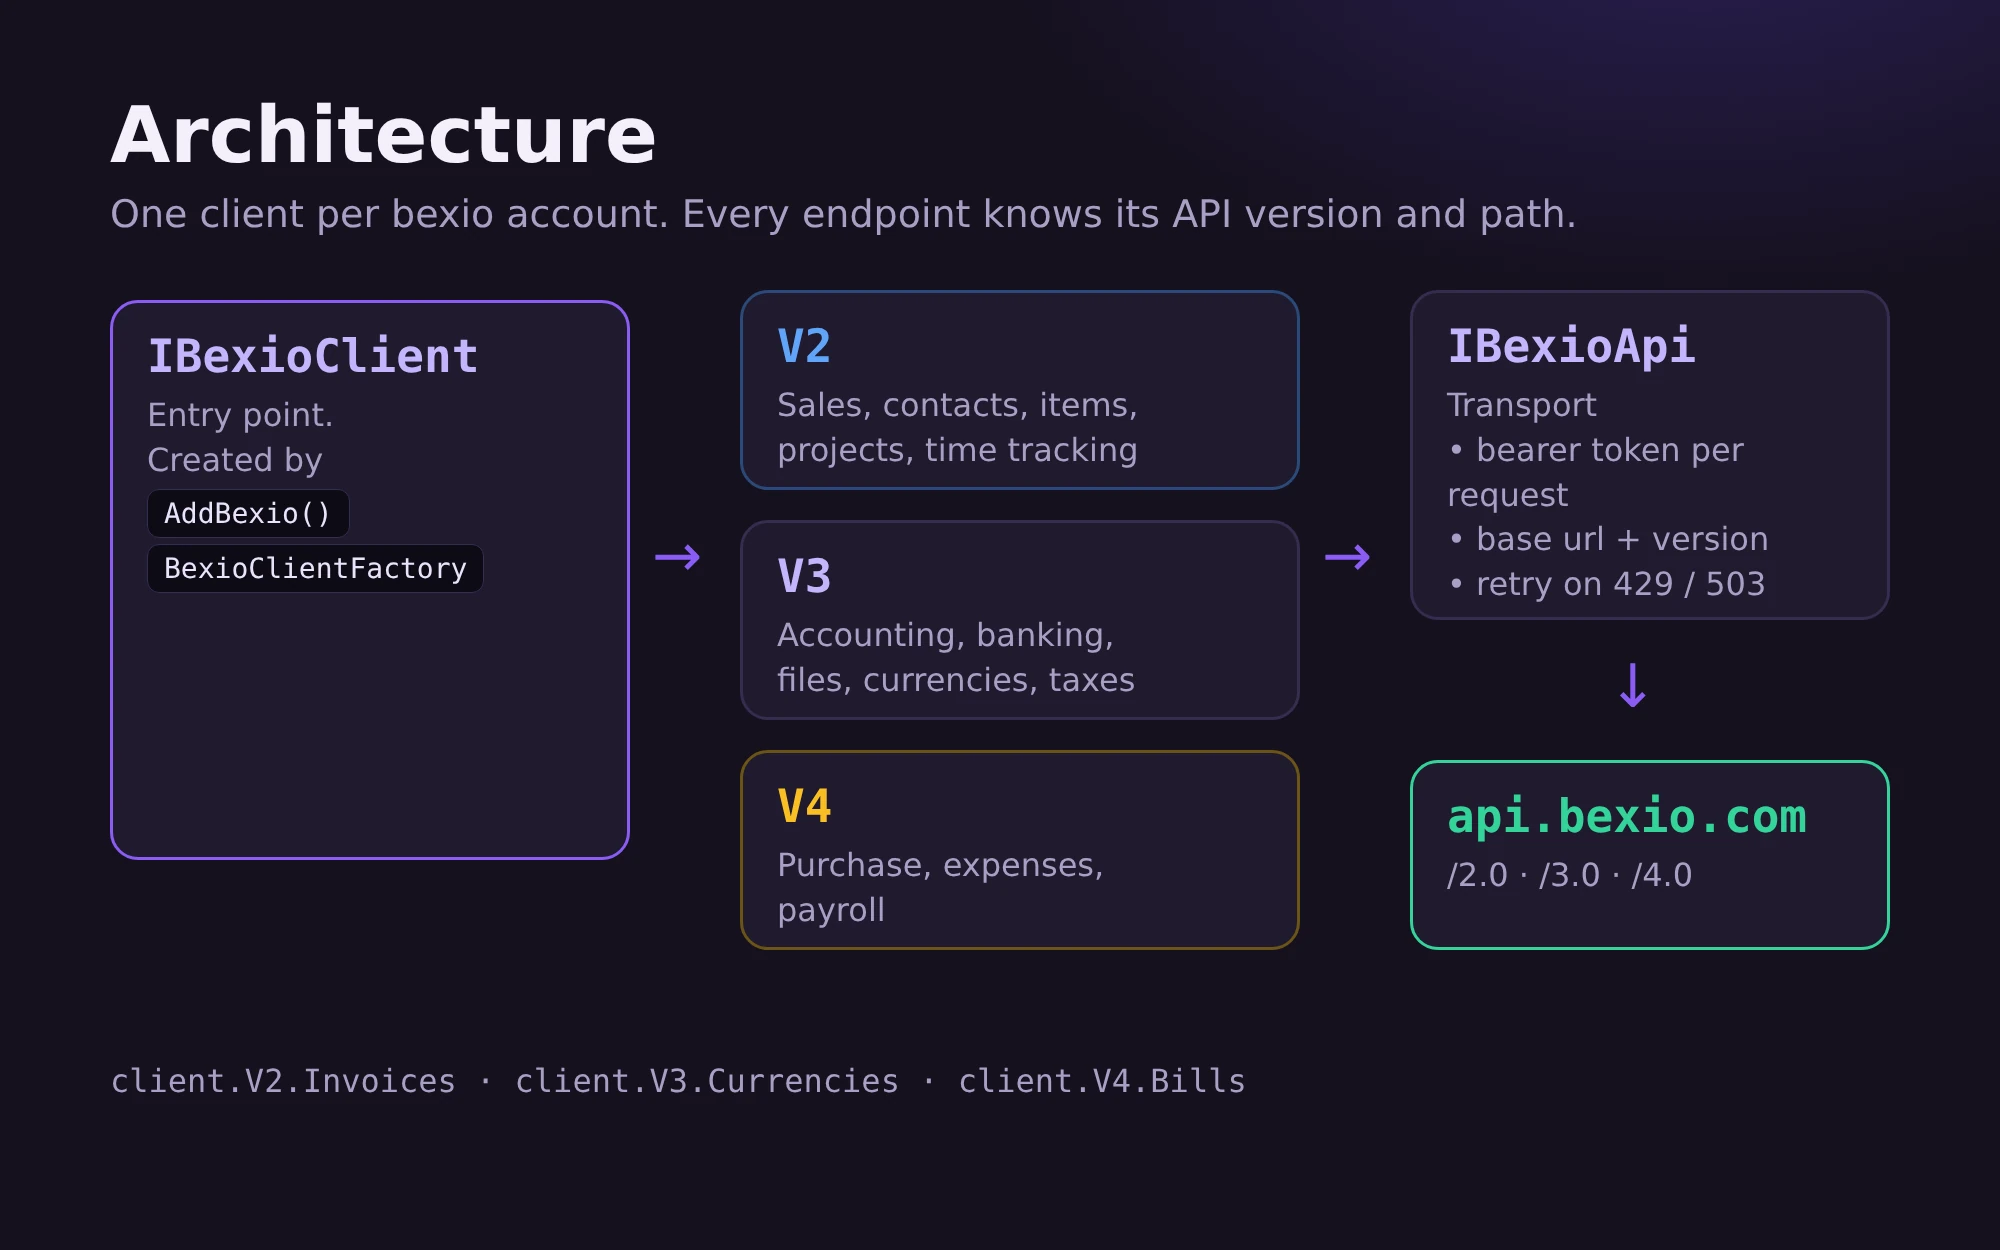
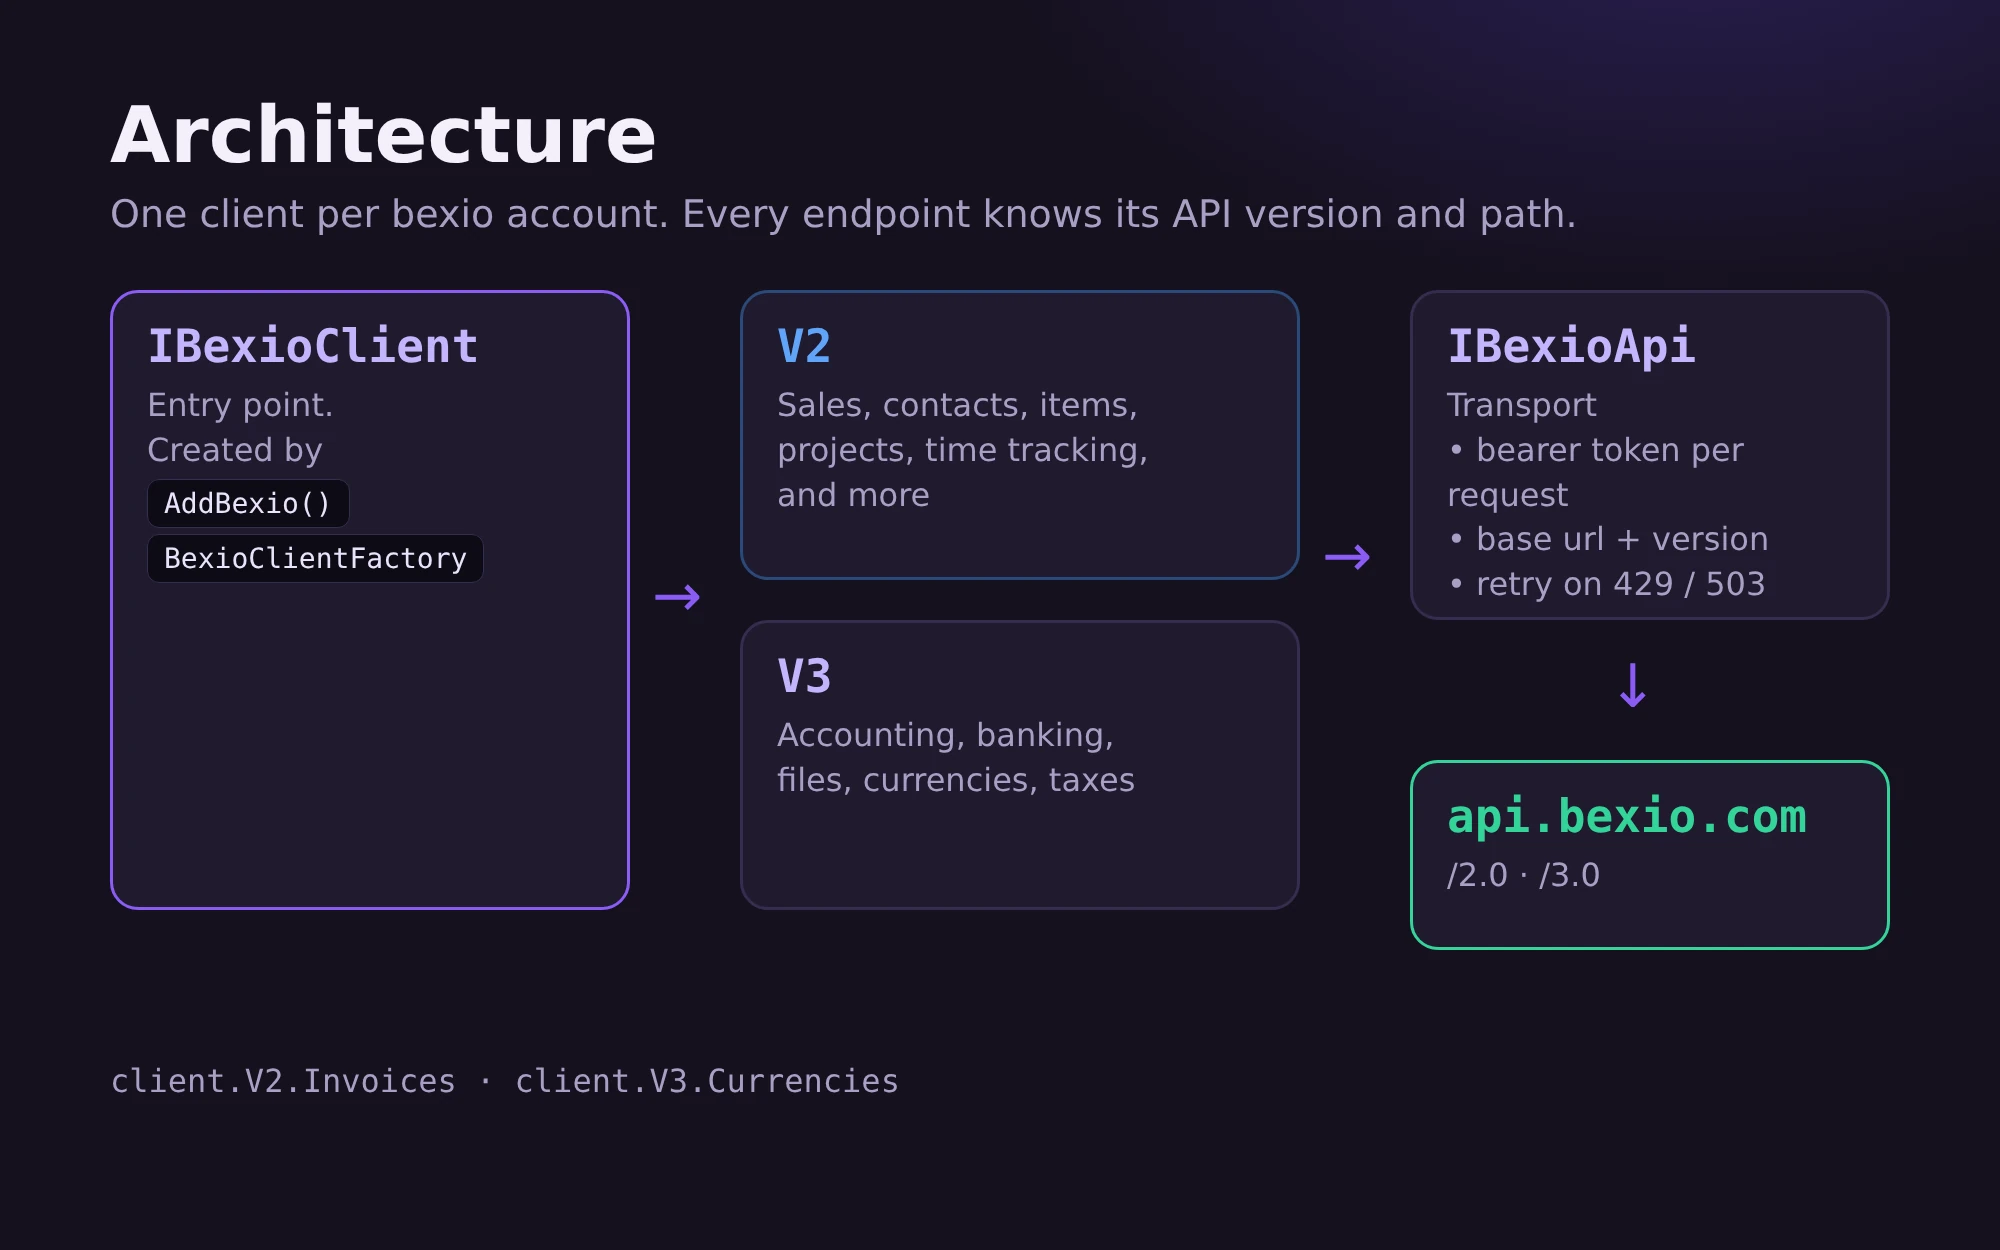
Remove api 4.0: code, docs, README and images
The 4.0 endpoints were written from memory and could not be confirmed
against the official documentation.

Claude-Session: https://claude.ai/code/session_01NjD8nMigrupCi1xWQoLrvY

diff --git a/bexio-api/BexioLibTest/Unit/EndpointTests.cs b/bexio-api/BexioLibTest/Unit/EndpointTests.cs
@@ -2,7 +2,6 @@ using bexio_lib.Data;
 using bexio_lib.Implementation;
 using bexio_lib.Implementation.Endpoints;
 using bexio_lib.Implementation.Endpoints.V3;
-using bexio_lib.Implementation.Endpoints.V4;
 using bexio_lib.Interfaces;
 using bexio_lib.Models;
 using Microsoft.Extensions.DependencyInjection;
@@ -38,18 +37,6 @@ namespace BexioLibTest.Unit
             this._api.Content = "{\"next_ref_nr\":\"MA-1\"}";
             Assert.Equal("MA-1", new BexioApiManualEntryEndpoint(this._api).GetNextReferenceNumber());
             Assert.Equal("3.0/accounting/manual_entries/next_ref_nr", this._api.Resource);
-        }
-
-        [Fact]
-        public void V4_uses_string_ids_and_put()
-        {
-            var bills = new BexioApiBillEndpoint(this._api);
-            bills.GetById("abc-1");
-            Assert.Equal("4.0/purchase/bills/abc-1", this._api.Resource);
-            bills.Update("abc-1", new BexioBill { title = "x" });
-            Assert.Equal(HttpMethod.Put, this._api.LastMethod);
-            new BexioApiEmployeeEndpoint(this._api).GetById("e1");
-            Assert.Equal("4.0/payroll/employees/e1", this._api.Resource);
         }
 
         [Fact]
@@ -192,8 +179,6 @@ namespace BexioLibTest.Unit
             Assert.Equal("2.0/contact", this._api.Resource);
             client.V3.Currencies.GetAll();
             Assert.Equal("3.0/currencies", this._api.Resource);
-            client.V4.Bills.GetAll();
-            Assert.Equal("4.0/purchase/bills", this._api.Resource);
             Assert.Same(client.V2.Contacts, client.V2.Contacts);
         }
 
@@ -205,7 +190,7 @@ namespace BexioLibTest.Unit
             var provider = services.BuildServiceProvider();
 
             var endpointInterfaces = typeof(IBexioApi).Assembly.GetTypes()
-                .Where(t => t.IsInterface && t.Name.StartsWith("IBexioApi") && t.Name.EndsWith("Endpoint") && !t.IsGenericType && t.Name != "IBexioApiEndpoint" && t.Name != "IBexioApiV4Endpoint`1" && t.Name != "IBexioApiPositionEndpoint");
+                .Where(t => t.IsInterface && t.Name.StartsWith("IBexioApi") && t.Name.EndsWith("Endpoint") && !t.IsGenericType && t.Name != "IBexioApiEndpoint" && t.Name != "IBexioApiPositionEndpoint");
             foreach (var i in endpointInterfaces)
             {
                 Assert.NotNull(provider.GetService(i));

diff --git a/bexio-api/bexio-lib/Implementation/BexioClientVersions.cs b/bexio-api/bexio-lib/Implementation/BexioClientVersions.cs
@@ -1,9 +1,7 @@
 using bexio_lib.Implementation.Endpoints;
 using bexio_lib.Implementation.Endpoints.V3;
-using bexio_lib.Implementation.Endpoints.V4;
 using bexio_lib.Interfaces;
 using bexio_lib.Interfaces.V3;
-using bexio_lib.Interfaces.V4;
 
 namespace bexio_lib.Implementation
 {
@@ -182,35 +180,5 @@ namespace bexio_lib.Implementation
         public IBexioApiTaxEndpoint Taxes => this._Taxes ??= new BexioApiTaxEndpoint(this._api);
         public IBexioApiUserV3Endpoint Users => this._Users ??= new BexioApiUserV3Endpoint(this._api);
         public IBexioApiVatPeriodEndpoint VatPeriods => this._VatPeriods ??= new BexioApiVatPeriodEndpoint(this._api);
-    }
-
-    public interface IBexioV4
-    {
-        IBexioApiAbsenceEndpoint Absences { get; }
-        IBexioApiBillEndpoint Bills { get; }
-        IBexioApiEmployeeEndpoint Employees { get; }
-        IBexioApiExpenseEndpoint Expenses { get; }
-        IBexioApiOutgoingPaymentEndpoint OutgoingPayments { get; }
-    }
-
-    public class BexioV4 : IBexioV4
-    {
-        private readonly IBexioApi _api;
-        private IBexioApiAbsenceEndpoint _Absences;
-        private IBexioApiBillEndpoint _Bills;
-        private IBexioApiEmployeeEndpoint _Employees;
-        private IBexioApiExpenseEndpoint _Expenses;
-        private IBexioApiOutgoingPaymentEndpoint _OutgoingPayments;
-
-        public BexioV4(IBexioApi api)
-        {
-            this._api = api;
-        }
-
-        public IBexioApiAbsenceEndpoint Absences => this._Absences ??= new BexioApiAbsenceEndpoint(this._api);
-        public IBexioApiBillEndpoint Bills => this._Bills ??= new BexioApiBillEndpoint(this._api);
-        public IBexioApiEmployeeEndpoint Employees => this._Employees ??= new BexioApiEmployeeEndpoint(this._api);
-        public IBexioApiExpenseEndpoint Expenses => this._Expenses ??= new BexioApiExpenseEndpoint(this._api);
-        public IBexioApiOutgoingPaymentEndpoint OutgoingPayments => this._OutgoingPayments ??= new BexioApiOutgoingPaymentEndpoint(this._api);
     }
 }

diff --git a/bexio-api/bexio-lib/Implementation/BexioClient.cs b/bexio-api/bexio-lib/Implementation/BexioClient.cs
@@ -11,7 +11,6 @@ namespace bexio_lib.Implementation
         IBexioApi Api { get; }
         IBexioV2 V2 { get; }
         IBexioV3 V3 { get; }
-        IBexioV4 V4 { get; }
     }
 
     public class BexioClient : IBexioClient
@@ -21,12 +20,10 @@ namespace bexio_lib.Implementation
             this.Api = api;
             this.V2 = new BexioV2(api);
             this.V3 = new BexioV3(api);
-            this.V4 = new BexioV4(api);
         }
 
         public IBexioApi Api { get; }
         public IBexioV2 V2 { get; }
         public IBexioV3 V3 { get; }
-        public IBexioV4 V4 { get; }
     }
 }

diff --git a/bexio-api/bexio-lib/Implementation/BexioServiceCollectionExtensions.cs b/bexio-api/bexio-lib/Implementation/BexioServiceCollectionExtensions.cs
@@ -100,7 +100,7 @@ namespace bexio_lib.Implementation
         }
 
         /// <summary>
-        /// Registers every endpoint (v2, v3, v4) of this assembly under its interface, e.g.
+        /// Registers every endpoint (v2, v3) of this assembly under its interface, e.g.
         /// IBexioApiInvoiceEndpoint -> BexioApiInvoiceEndpoint
         /// </summary>
         public static IServiceCollection AddBexioEndpoints(this IServiceCollection services)

diff --git a/bexio-api/bexio-lib/Data/BexioApiVersion.cs b/bexio-api/bexio-lib/Data/BexioApiVersion.cs
@@ -8,6 +8,5 @@ namespace bexio_lib.Data
     {
         public const string V2 = "2.0";
         public const string V3 = "3.0";
-        public const string V4 = "4.0";
     }
 }

diff --git a/docs/endpoints.md b/docs/endpoints.md
@@ -5,11 +5,10 @@ Every endpoint has sync and `...Async` methods.
 
 Access levels:
 - **read**: `GetById`, `GetAll`, `Search` (+ async variants)
-- **CRUD**: read plus `Create`, `Update`, `Delete`. api 2.0 edits with `POST`, 3.0 and 4.0 with `PUT`.
-- **CRUD (string ids)**: api 4.0 resources use uuid string ids: `GetById(string)`, `Update(string, ...)`, `Delete(string)`.
+- **CRUD**: read plus `Create`, `Update`, `Delete`. api 2.0 edits with `POST`, 3.0 with `PUT`.
 - Other entries list the extra actions of the endpoint.
 
-> The api 3.0 and 4.0 endpoints and the models of the newer resources were written without access to the bexio documentation and have not been verified against the real API yet. Please open an issue if a path or field does not match.
+> The api 3.0 endpoints and the models of the newer resources were written without access to the bexio documentation and have not been verified against the real API yet. Please open an issue if a path or field does not match.
 
 ## API 2.0
 
@@ -68,15 +67,5 @@ Access levels:
 | `Taxes` | `IBexioApiTaxEndpoint` | `3.0/taxes` | read, delete |
 | `Users` | `IBexioApiUserV3Endpoint` | `3.0/users` | read, `GetMe()` |
 | `VatPeriods` | `IBexioApiVatPeriodEndpoint` | `3.0/accounting/vat_periods` | read |
-
-## API 4.0
-
-| `client.V4.…` | Interface | Resource | Access |
-|---|---|---|---|
-| `Absences` | `IBexioApiAbsenceEndpoint` | `4.0/payroll/absences` | CRUD (string ids) |
-| `Bills` | `IBexioApiBillEndpoint` | `4.0/purchase/bills` | CRUD (string ids) |
-| `Employees` | `IBexioApiEmployeeEndpoint` | `4.0/payroll/employees` | CRUD (string ids) |
-| `Expenses` | `IBexioApiExpenseEndpoint` | `4.0/expenses` | CRUD (string ids) |
-| `OutgoingPayments` | `IBexioApiOutgoingPaymentEndpoint` | `4.0/purchase/outgoing-payments` | CRUD (string ids) |
 
 Missing a resource? Derive from `BexioApiCrudEndpoint<T>` or `BexioApiFullEndpoint<T>`, pass the api version and path, and register it. See [Extending](usage.md#extending-with-your-own-endpoint).

diff --git a/README.md b/README.md
@@ -4,7 +4,7 @@
 
 This repository contains a dotnet / dotnet core compatible Bexio client.
 
-Supports **bexio API v2.0, v3.0 and v4.0**. Every endpoint knows its own version, so both can be used side by side with one api key.
+Supports **bexio API v2.0 and v3.0**. Every endpoint knows its own version, so both can be used side by side with one api key.
 All endpoints offer sync and async (`...Async`) methods, targets .NET 10 (LTS).
 
 #### API 2.0 (`bexio_lib.Interfaces`)
@@ -20,12 +20,6 @@ All endpoints offer sync and async (`...Async`) methods, targets .NET 10 (LTS).
 - Accounting: calendar years, business years, VAT periods, manual entries (+ next reference number), journal
 - Banking: bank accounts
 - Files: list, upload, download, delete
-
-#### API 4.0 (`bexio_lib.Interfaces.V4`)
-- Purchase bills, expenses, outgoing payments
-- Payroll employees and absences
-
-(uuid string ids, edit via PUT)
 
 Entities with write access (`IBexioApiCrudEndpoint`) support `Create`, `Update` and `Delete`; all others `GetById`, `GetAll` and `Search`.
 Resources not covered yet can be added by deriving from `BexioApiCrudEndpoint<T>` / `BexioApiFullEndpoint<T>` with the matching `BexioApiVersion`.
@@ -169,7 +163,7 @@ Full documentation is in [`docs/`](docs/index.md):
 - [Getting started](docs/getting-started.md): install, setup with or without dependency injection
 - [Authentication](docs/authentication.md): personal access token and OAuth2, token store, several bexio accounts
 - [Usage](docs/usage.md): filters and search, paging, create / update / delete, errors, retries, own endpoints
-- [Endpoint reference](docs/endpoints.md): all endpoints of api 2.0, 3.0 and 4.0
+- [Endpoint reference](docs/endpoints.md): all endpoints of api 2.0 and 3.0
 - [Testing](docs/testing.md) and [Releasing](docs/releasing.md)
 
 The package also ships XML documentation for IntelliSense.

diff --git a/docs/index.md b/docs/index.md
@@ -1,6 +1,6 @@
 # bexio-dotnet documentation
 
-A .NET client for the [bexio](https://www.bexio.com) API (2.0, 3.0 and 4.0).
+A .NET client for the [bexio](https://www.bexio.com) API (2.0 and 3.0).
 
 | Guide | Content |
 |---|---|
@@ -19,7 +19,7 @@ Requirements: .NET 10 (LTS).
 
 ```
 IBexioClient                      entry point, one per bexio account
- ├─ V2 / V3 / V4                  endpoints grouped by api version
+ ├─ V2 / V3                        endpoints grouped by api version
  │   └─ Contacts, Invoices, ...   one endpoint per bexio resource
  └─ Api (IBexioApi)               transport: auth header, base url, retry
 ```
